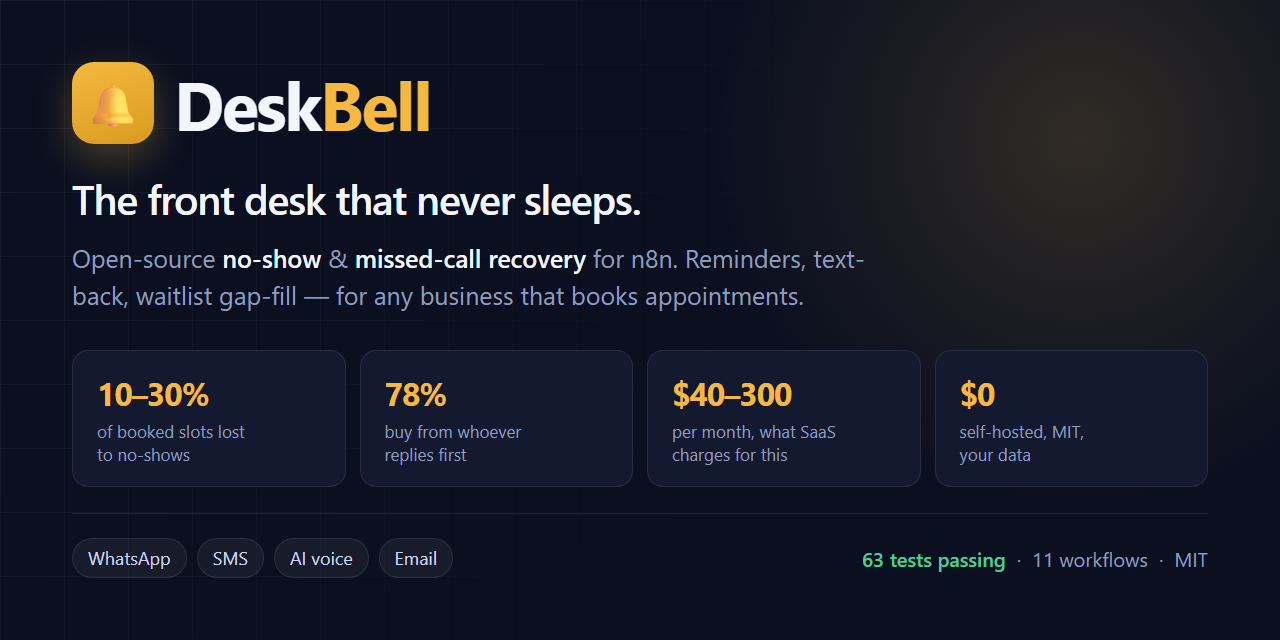
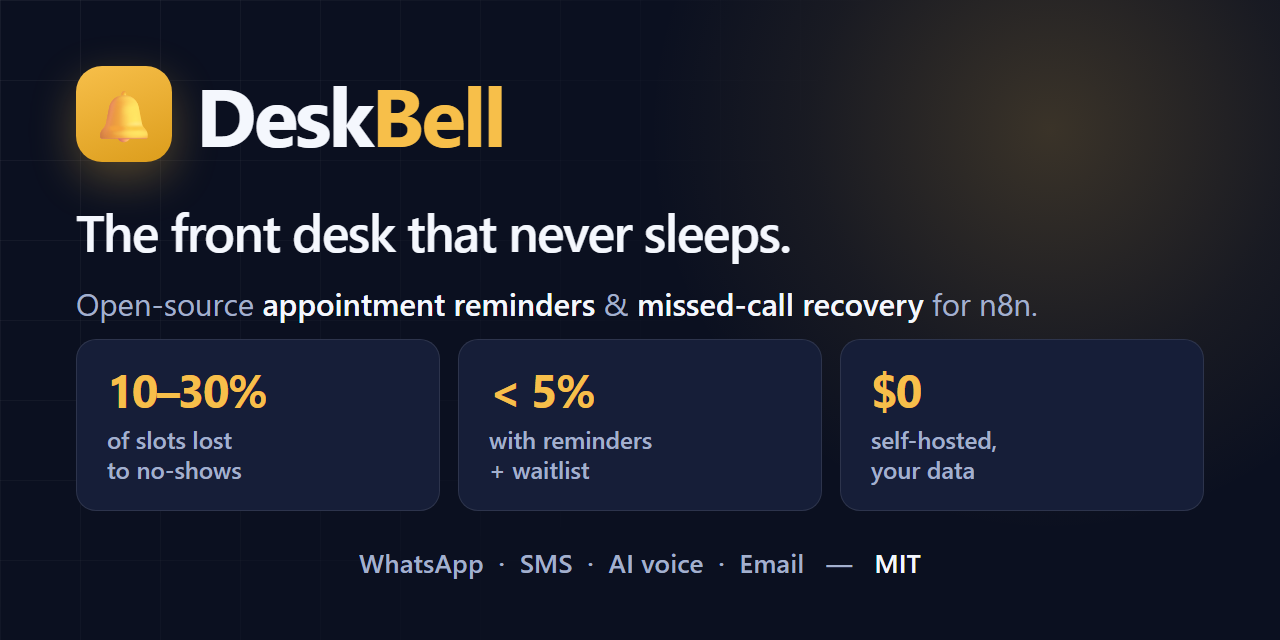
design: rebuild the social preview to survive feed downscale
The first version packed in four stat cards, a chip row and a fine-print
footer. Checked against a 400px downscale — the size this card is actually
seen at when Slack, X or LinkedIn unfurl a link — half of it turned to
mush. Only the wordmark and tagline survived.

Rebuilt thumbnail-first:

  Wordmark and tagline enlarged (82px / 52px), since those are the two
  things that must read at any size.

  Subline cut to one nowrap line carrying the search terms that matter:
  "appointment reminders" and "missed-call recovery".

  Four stat cards down to three, with labels at 24px instead of 17px and
  no label longer than three words. Swapped the SaaS price stat for the
  outcome: no-shows go from 10-30% to under 5% with reminders plus
  waitlist. That is the promise; the price comparison belongs in the
  README where there is room to substantiate it.

  Dropped the chip row and the fine print entirely.

`npm run social -- --thumb` now also renders a 410x205 legibility proof so
this check is repeatable rather than something I eyeballed once. The proof
is gitignored — it is a development aid, not an asset.

diff --git a/assets/social-preview.html b/assets/social-preview.html
@@ -4,18 +4,23 @@
 <meta charset="utf-8">
 <style>
   /* GitHub social preview card — 1280x640, rendered to PNG by
-     scripts/build-social-preview.mjs. Edit here, then `npm run social`. */
+     scripts/build-social-preview.mjs (`npm run social`).
+
+     Designed thumbnail-first. This card is almost never seen at full size: it
+     appears as a ~360-400px unfurl in Slack, X and LinkedIn. Everything here is
+     sized so it survives a 3x downscale — which is why the copy is short, the
+     labels are large, and there is no chip row or fine print. Check changes with
+     the thumbnail test in the build script before committing. */
   * { margin: 0; padding: 0; box-sizing: border-box; }
 
   :root {
     --ink:     #0b1020;
-    --ink-2:   #131a30;
-    --brass:   #f5b93f;
-    --brass-d: #d99a1f;
-    --text:    #f2f5fb;
-    --muted:   #8f9dbc;
-    --line:    rgba(255,255,255,.09);
-    --green:   #47d19a;
+    --ink-2:   #161e38;
+    --brass:   #f7bf4a;
+    --brass-d: #dc9d1c;
+    --text:    #f4f7fd;
+    --muted:   #a3b0cd;
+    --line:    rgba(255,255,255,.10);
   }
 
   body {
@@ -27,70 +32,62 @@
     position: relative;
   }
 
-  /* Warm glow behind the bell, so the card has a focal point at thumbnail size */
   .glow {
-    position: absolute; top: -240px; right: -180px;
-    width: 760px; height: 760px; border-radius: 50%;
-    background: radial-gradient(circle, rgba(245,185,63,.16) 0%, rgba(245,185,63,.05) 42%, transparent 68%);
+    position: absolute; top: -300px; right: -200px;
+    width: 860px; height: 860px; border-radius: 50%;
+    background: radial-gradient(circle, rgba(247,191,74,.20) 0%, rgba(247,191,74,.06) 40%, transparent 66%);
   }
   .grid {
     position: absolute; inset: 0;
     background-image:
       linear-gradient(var(--line) 1px, transparent 1px),
       linear-gradient(90deg, var(--line) 1px, transparent 1px);
-    background-size: 64px 64px;
-    mask-image: linear-gradient(115deg, #000 0%, transparent 62%);
-    opacity: .55;
+    background-size: 80px 80px;
+    mask-image: linear-gradient(120deg, #000 0%, transparent 58%);
+    opacity: .5;
   }
 
-  .card { position: relative; height: 100%; padding: 62px 72px; display: flex; flex-direction: column; }
+  .card { position: relative; height: 100%; padding: 66px 76px 60px; display: flex; flex-direction: column; }
 
-  /* ---------- wordmark ---------- */
-  .brand { display: flex; align-items: center; gap: 20px; }
+  /* ---------- wordmark: must be legible at 1/3 scale ---------- */
+  .brand { display: flex; align-items: center; gap: 24px; }
   .bell {
-    width: 82px; height: 82px; border-radius: 22px; flex: none;
+    width: 96px; height: 96px; border-radius: 26px; flex: none;
     background: linear-gradient(160deg, var(--brass) 0%, var(--brass-d) 100%);
     display: flex; align-items: center; justify-content: center;
-    font-size: 44px; line-height: 1;
-    box-shadow: 0 14px 40px rgba(245,185,63,.28);
+    font-size: 52px; line-height: 1;
+    box-shadow: 0 16px 46px rgba(247,191,74,.30);
   }
-  h1 { font-size: 68px; font-weight: 700; letter-spacing: -2.2px; line-height: 1; }
+  h1 { font-size: 82px; font-weight: 700; letter-spacing: -2.8px; line-height: 1; }
   h1 b { color: var(--brass); font-weight: 700; }
 
   .tagline {
-    margin-top: 30px;
-    font-size: 41px; font-weight: 600; letter-spacing: -1.1px; line-height: 1.18;
-    max-width: 900px;
+    margin-top: 40px;
+    font-size: 52px; font-weight: 600; letter-spacing: -1.6px; line-height: 1.12;
   }
+  /* One line, ~9 words. Anything longer is unreadable in a feed. */
   .sub {
-    margin-top: 18px;
-    font-size: 25px; font-weight: 400; color: var(--muted); line-height: 1.45;
-    max-width: 830px;
+    margin-top: 22px;
+    font-size: 31px; font-weight: 400; color: var(--muted); line-height: 1.4;
+    max-width: 1140px;   /* keeps the subline to ONE line — it wraps badly at 3x downscale */
+    white-space: nowrap;
   }
   .sub em { color: var(--text); font-style: normal; font-weight: 600; }
 
-  /* ---------- stat row ---------- */
-  .stats { margin-top: auto; display: flex; gap: 14px; }
+  /* ---------- three stats, short labels only ---------- */
+  .stats { margin-top: auto; display: flex; gap: 18px; }
   .stat {
-    flex: 1; padding: 20px 24px; border-radius: 16px;
+    flex: 1; padding: 26px 30px; border-radius: 20px;
     background: var(--ink-2); border: 1px solid var(--line);
   }
-  .stat .n { font-size: 32px; font-weight: 700; letter-spacing: -1px; color: var(--brass); }
-  .stat .l { margin-top: 6px; font-size: 17px; color: var(--muted); line-height: 1.35; }
+  .stat .n { font-size: 46px; font-weight: 700; letter-spacing: -1.6px; color: var(--brass); line-height: 1; }
+  .stat .l { margin-top: 12px; font-size: 24px; font-weight: 500; color: var(--muted); line-height: 1.25; }
 
-  /* ---------- footer ---------- */
   .foot {
-    margin-top: 26px; padding-top: 24px; border-top: 1px solid var(--line);
-    display: flex; align-items: center; justify-content: space-between;
-    font-size: 20px; color: var(--muted);
+    margin-top: 34px; text-align: center;
+    font-size: 26px; font-weight: 500; color: var(--muted); letter-spacing: .2px;
   }
-  .chips { display: flex; gap: 10px; }
-  .chip {
-    padding: 7px 15px; border-radius: 999px;
-    background: rgba(255,255,255,.05); border: 1px solid var(--line);
-    font-size: 18px; color: #cbd5ef;
-  }
-  .ok { color: var(--green); font-weight: 600; }
+  .foot b { color: var(--text); font-weight: 600; }
 </style>
 </head>
 <body>
@@ -105,38 +102,25 @@
 
     <div class="tagline">The front desk that never sleeps.</div>
     <div class="sub">
-      Open-source <em>no-show</em> &amp; <em>missed-call recovery</em> for n8n.
-      Reminders, text-back, waitlist gap-fill &mdash; for any business that books appointments.
+      Open-source <em>appointment reminders</em> &amp; <em>missed-call recovery</em> for n8n.
     </div>
 
     <div class="stats">
       <div class="stat">
         <div class="n">10&ndash;30%</div>
-        <div class="l">of booked slots lost<br>to no-shows</div>
+        <div class="l">of slots lost<br>to no-shows</div>
       </div>
       <div class="stat">
-        <div class="n">78%</div>
-        <div class="l">buy from whoever<br>replies first</div>
-      </div>
-      <div class="stat">
-        <div class="n">$40&ndash;300</div>
-        <div class="l">per month, what SaaS<br>charges for this</div>
+        <div class="n">&lt; 5%</div>
+        <div class="l">with reminders<br>+ waitlist</div>
       </div>
       <div class="stat">
         <div class="n">$0</div>
-        <div class="l">self-hosted, MIT,<br>your data</div>
+        <div class="l">self-hosted,<br>your data</div>
       </div>
     </div>
 
-    <div class="foot">
-      <div class="chips">
-        <span class="chip">WhatsApp</span>
-        <span class="chip">SMS</span>
-        <span class="chip">AI voice</span>
-        <span class="chip">Email</span>
-      </div>
-      <div><span class="ok">63 tests passing</span> &nbsp;·&nbsp; 11 workflows &nbsp;·&nbsp; MIT</div>
-    </div>
+    <div class="foot">WhatsApp &nbsp;·&nbsp; SMS &nbsp;·&nbsp; AI voice &nbsp;·&nbsp; Email &nbsp;&nbsp;&mdash;&nbsp;&nbsp; <b>MIT</b></div>
   </div>
 </body>
 </html>
